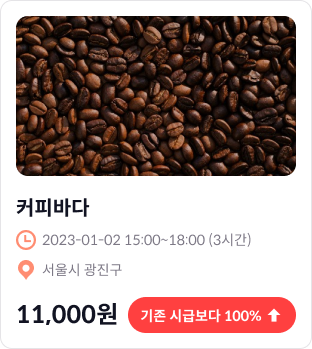
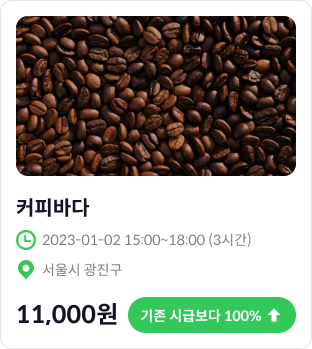
chore: 커스텀 색상

Changed region(s): [[0.4038, 0.8309, 0.9519, 0.9742], [0.0288, 0.659, 0.1154, 0.7163], [0.0577, 0.745, 0.1154, 0.8023]]

diff --git a/src/components/Header/index.tsx b/src/components/Header/index.tsx
@@ -13,7 +13,7 @@ const Header = ({ placeholder }: HeaderProps) => {
       <div className="w-full max-w-1088">
         <div className="flex flex-wrap items-center justify-center gap-16 px-20 py-10 tablet:flex-nowrap tablet:gap-30 tablet:px-32 tablet:py-15">
           <Link href="/joblist" aria-label="공고 리스트 페이지로 이동" className="shrink-0">
-            <Logo className="w-84 tablet:w-112" />
+            <Logo className="w-84 text-primary tablet:w-112" />
           </Link>
           <SearchInput placeholder={placeholder} />
           <UserHeader />

diff --git a/src/components/Landing/HowWorks/index.tsx b/src/components/Landing/HowWorks/index.tsx
@@ -15,7 +15,7 @@ const HowWorks = () => {
           {STEPS.map((step, i) => (
             <div key={step.id} className="relative">
               <div className="flex flex-col items-center gap-12 text-center">
-                <div className="mb-4 flex items-center justify-center rounded-full bg-red-10 p-16">
+                <div className="bg-secondary mb-4 flex items-center justify-center rounded-full p-16">
                   <step.icon className="h-32 w-32 text-primary" />
                 </div>
                 <h3 className="text-18-bold">{step.title}</h3>

diff --git a/src/components/Landing/ReasonToUse/index.tsx b/src/components/Landing/ReasonToUse/index.tsx
@@ -17,7 +17,7 @@ const ReasonToUse = () => {
               key={reason.id}
               className="rounded-xl border bg-white px-18 py-24 text-center transition hover:shadow-lg"
             >
-              <div className="inline-flex items-center rounded-full bg-red-10 p-16">
+              <div className="bg-secondary inline-flex items-center rounded-full p-16">
                 <reason.icon className="h-32 w-32 text-primary" />
               </div>
               <h3 className="mb-8 mt-18 text-18-bold">{reason.title}</h3>

diff --git a/src/components/Landing/LandingHeader/index.tsx b/src/components/Landing/LandingHeader/index.tsx
@@ -27,7 +27,7 @@ const LandingHeader = () => {
       <div className="w-full max-w-1088">
         <div className="flex flex-wrap items-center justify-between gap-16 px-20 py-10 tablet:flex-nowrap tablet:gap-30 tablet:px-32 tablet:py-15">
           <Link href="/" aria-label="메인페이지로 이동" className="shrink-0">
-            <Logo className="w-84 tablet:w-112" />
+            <Logo className="w-84 text-primary tablet:w-112" />
           </Link>
           {isLogined ? (
             <Button

diff --git a/src/components/Landing/HeroSection/index.tsx b/src/components/Landing/HeroSection/index.tsx
@@ -4,7 +4,7 @@ const HeroSection = () => {
   const { data } = useGetNoticesQuery();
 
   return (
-    <section className="mt-54 bg-red-10 px-16 py-64">
+    <section className="bg-secondary mt-54 px-16 py-64">
       <div className="mx-auto max-w-3xl">
         <div className="flex flex-col items-center gap-16">
           <h1 className="text-center text-48 font-bold">

diff --git a/src/styles/globals.css b/src/styles/globals.css
@@ -9,7 +9,6 @@
 :root {
   --white: #ffffff;
   --black: #111322;
-  --primary: #ea3c12;
 
   --gray-5: #fafafa;
   --gray-10: #f2f2f3;
@@ -26,8 +25,9 @@
   --blue-10: #cce6ff;
   --blue-20: #0080ff;
 
-  --green-10: #d4f7d4;
-  --green-20: #20a81e;
+  --primary: #20a81e;
+  --secondary: #d4f7d4;
+  --third: #4eca41;
 }
 
 @layer utilities {

diff --git a/src/components/Landing/FeaturesSection/EmployerSection/index.tsx b/src/components/Landing/FeaturesSection/EmployerSection/index.tsx
@@ -29,7 +29,7 @@ const EmployerSection = () => {
 
         <Button
           status="filled"
-          className="mt-24 max-w-300 py-16 text-20-bold transition hover:bg-red-40"
+          className="hover:bg-third mt-24 max-w-300 py-16 text-20-bold transition"
           onClick={handleShopClick}
         >
           등록 하러가기

diff --git a/src/components/Landing/FeaturesSection/EmployeeSection/index.tsx b/src/components/Landing/FeaturesSection/EmployeeSection/index.tsx
@@ -21,7 +21,7 @@ const EmployeeSection = () => {
 
         <Button
           status="filled"
-          className="mt-24 max-w-300 py-16 text-20-bold transition hover:bg-red-40"
+          className="hover:bg-third mt-24 max-w-300 py-16 text-20-bold transition"
           onClick={handleJobClick}
         >
           공고 보러가기

diff --git a/tailwind.config.ts b/tailwind.config.ts
@@ -32,6 +32,8 @@ const config: Config = {
         white: "var(--white)",
         black: "var(--black)",
         primary: "var(--primary)",
+        secondary: "var(--secondary)",
+        third: "var(--third)",
         "black-overlay": "rgba(0, 0, 0, 0.7)",
         gray: {
           5: "var(--gray-5)",
